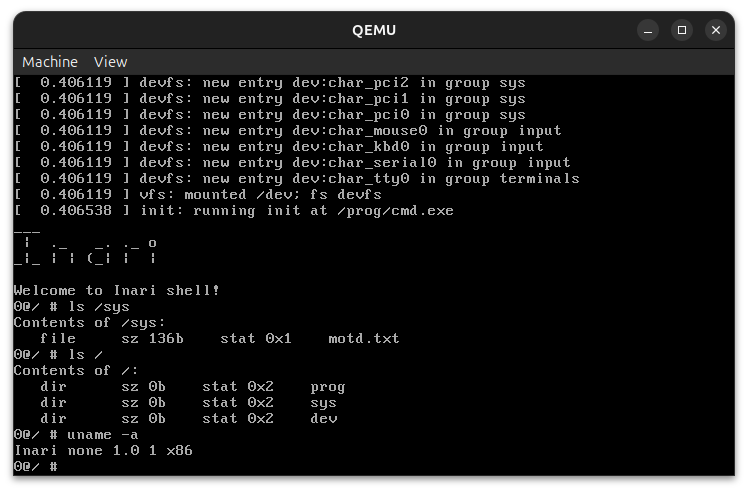
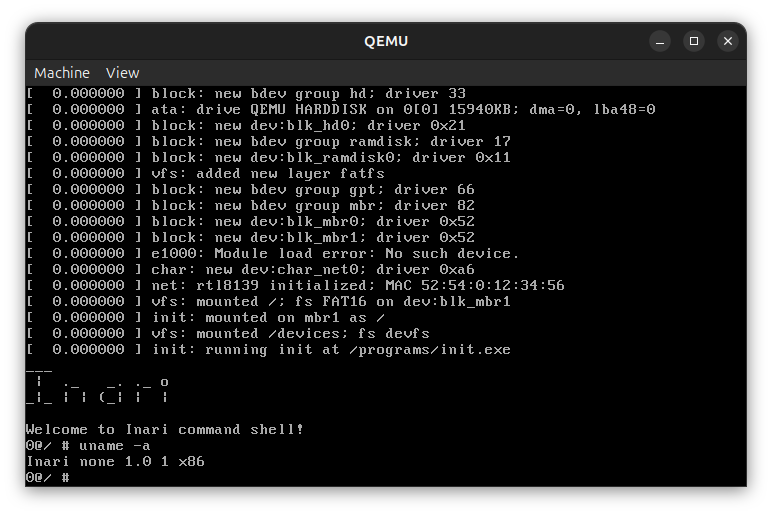
feat: setuptap script

Changed region(s): [[0.0, 0.0, 1.0, 1.0]]

diff --git a/kernel/kprintf.c b/kernel/kprintf.c
@@ -22,9 +22,9 @@ int kprintf(const char *fmt, ...) {
     va_start(args, fmt);
     int c = 0;
 
-    if (is_cpu_initialized()) /* TODO: Doing division crashes the kernel on bare metal i686 */
-        c += print("[  %f ] ", (double)timer_get_ticks() / (double)timer_get_resolution());
-    else
+//    if (is_cpu_initialized()) /* TODO: Doing division crashes the kernel on bare metal i686 */
+  //      c += print("[  %f ] ", (double)timer_get_ticks() / (double)timer_get_resolution());
+    //else
         c += print("[  0.000000 ] ");
     c += do_kprintfn(fmt, args, &do_printf_handler, NULL);
     c += print("\n");

diff --git a/userspace/shell/ism/src/window.c b/userspace/shell/ism/src/window.c
@@ -427,6 +427,12 @@ int ism_window_update(void) {
             window->controls_state[0] = 0;
         }
 
+        /* TEST */
+        if (window->controls_state[1] && !mouse.buttons[MOUSE_BTN1]) {
+            execp(NULL, "/programs/cube.exe");
+            window->controls_state[1] = 0;
+        }
+
         /* Check if mouse hovers window controls */
         if (mouse.pos_y >= window->y + 1 && mouse.pos_y < window->y + 17) {
             /* Close button */

diff --git a/driver/video/vesa.c b/driver/video/vesa.c
@@ -524,7 +524,7 @@ static struct video_ops ops = {.mode_info = &video_mode_info,
 
 module_t vesa_module = {
     .probe = vesa_probe, .cleanup = vesa_cleanup,
-    // .flags = MODULE_FLAG_LAZY_LOAD,
+    .flags = MODULE_FLAG_LAZY_LOAD,
 };
 
 module_register("vesa", vesa_module);

diff --git a/config.h b/config.h
@@ -16,7 +16,7 @@
 #define CONFIG_DRV_VGA_TEXT
 #define CONFIG_DRV_PS2
 #define CONFIG_DRV_VESA
-#define CONFIG_DRV_SPLASH
+//#define CONFIG_DRV_SPLASH
 #define CONFIG_DRV_RAMDISK_MULTIBOOT
 
 #define CONFIG_DRV_DEVFS
